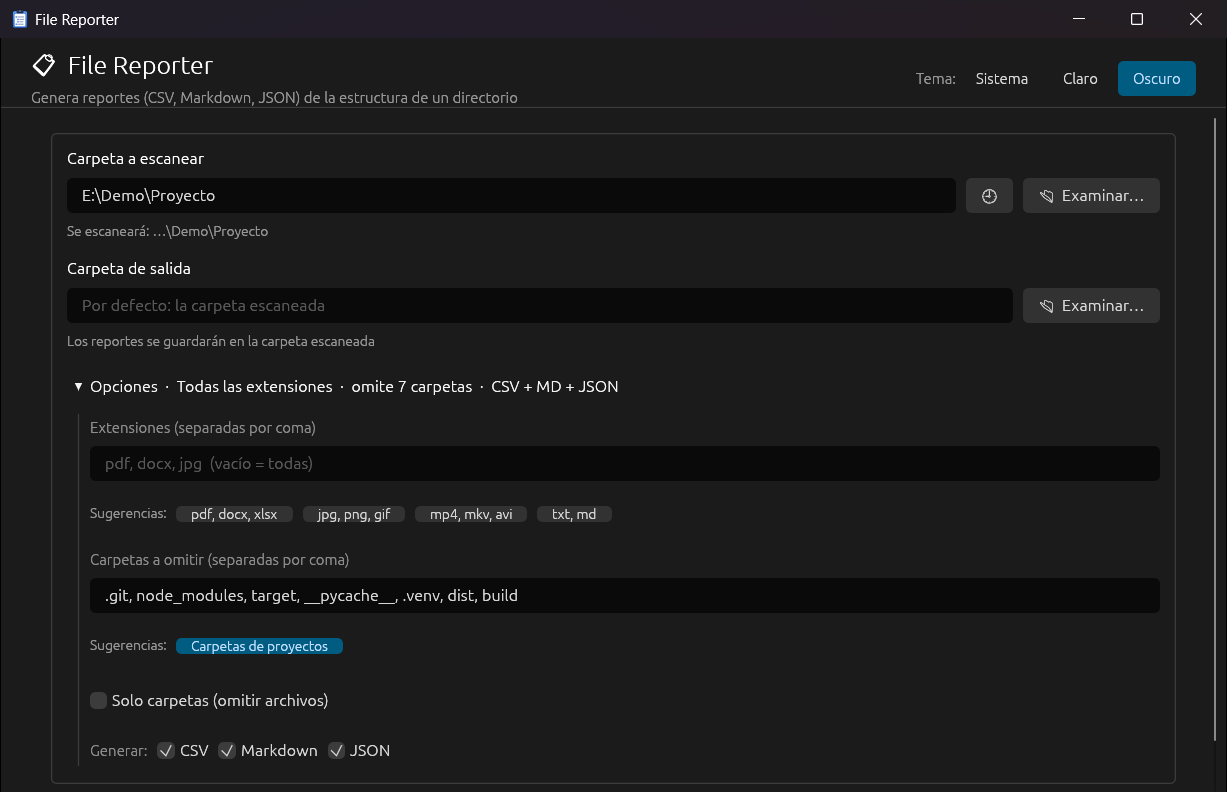
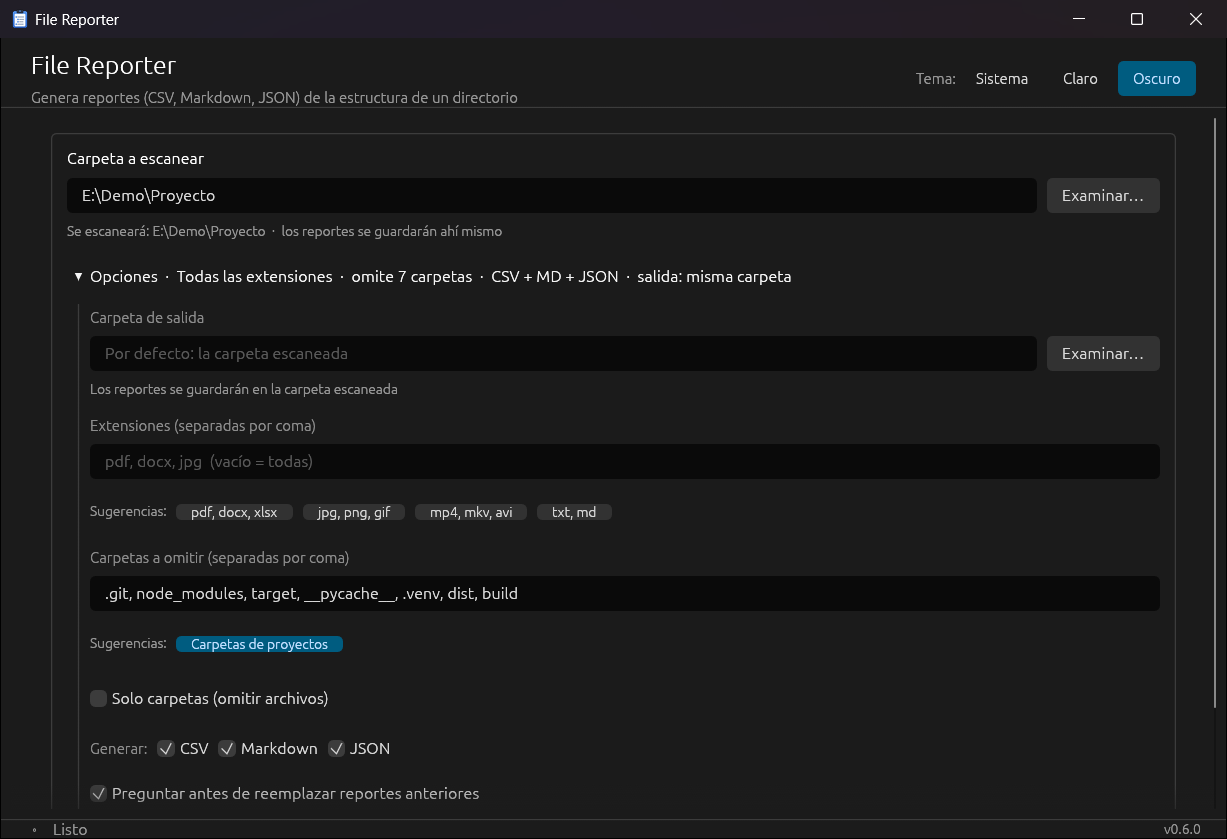
docs: update documentation and screenshots for redesigned GUI form layout
- Move output folder configuration from main form to Options section
- Update README workflow diagram to include output folder in Options
- Revise step-by-step instructions to reflect new form layout and clearer first-use guidance
- Add explanation of drop zone for folder input and inline help text next to Generate button
- Update alt text for GUI screenshots to match new Options panel contents
- Document "Reset" button behavior (clears form without losing last result)
- Add CHANGELOG entries for improved first-use experience and GUI refinements
- Fix bug where folder paths under drive root displayed incorrectly (showed `…\\\Windows` instead of `C:\Windows`)
- Update screenshots (gui-opciones.png and gui-resultado.png) to reflect current UI design

diff --git a/README.md b/README.md
@@ -72,7 +72,7 @@ file-reporter /ruta/a/escanear
 
 **Interfaz gráfica**
 - 🖱 Arrastra una carpeta, usa "Examinar…" o elige una de las 5 últimas (🕘).
-- 🧭 Formulario simple: lo esencial arriba y el resto en **Opciones**, con un resumen de lo elegido.
+- 🧭 Formulario simple: arriba solo la carpeta a escanear; el resto, incluida la carpeta de salida, en **Opciones**, con un resumen de lo elegido. Si falta algo para empezar, lo dice junto al botón.
 - 📈 Progreso en vivo (archivos encontrados y carpetas revisadas); **cancela** en cualquier momento con Esc.
 - 🧾 Resultado claro: reportes (abrir o copiar su ruta), tipos de archivo y lo que quedó fuera, con su motivo.
 - 🔄 Al volver a generar, ofrece actualizar los reportes anteriores o guardar los nuevos con otro nombre, o no volver a preguntar.
@@ -153,7 +153,7 @@ El mismo ejecutable funciona en dos modos:
 
 ```mermaid
 flowchart TD
-    A["📁 Elegir la carpeta a escanear<br/>escribir, Examinar…, 🕘 recientes o arrastrar"] --> B["⚙ Opciones (opcional)<br/>extensiones · carpetas a omitir · formatos"]
+    A["📁 Elegir la carpeta a escanear<br/>escribir, Examinar…, 🕘 recientes o arrastrar"] --> B["⚙ Opciones (opcional)<br/>salida · extensiones · carpetas a omitir · formatos"]
     B --> C["▶ Generar reportes"]
     C --> D{"¿Ya hay reportes<br/>en la carpeta de salida?"}
     D -- "No" --> E["⏳ Escaneo con progreso en vivo<br/>Esc cancela"]
@@ -163,19 +163,19 @@ flowchart TD
     E --> G["✅ Resultado: reportes, tipos de archivo<br/>y lo que quedó fuera"]
 ```
 
-1. Elige la **carpeta a escanear**: escribe la ruta, pulsa "Examinar…", elige una reciente con 🕘 o arrástrala a la ventana. Debajo se ve el final de la ruta, por si el campo la corta.
-2. *(Opcional)* Elige una **carpeta de salida**. Por defecto, la misma carpeta escaneada.
-3. *(Opcional)* Despliega **Opciones**. Plegado, muestra un resumen de lo elegido (p. ej. "Todas las extensiones · omite 7 carpetas · CSV + MD + JSON"). Dentro puedes:
+1. Elige la **carpeta a escanear**: arrástrala a la zona punteada (o a cualquier parte de la ventana), haz clic en esa zona o en "Examinar…", elige una reciente con 🕘 o escribe la ruta. Debajo se ve el final de la ruta, por si el campo la corta, y dónde se guardarán los reportes.
+2. *(Opcional)* Despliega **Opciones**. Plegado, muestra un resumen de lo elegido (p. ej. "Todas las extensiones · omite 7 carpetas · CSV + MD + JSON · salida: misma carpeta"). Dentro puedes:
+   - elegir otra **carpeta de salida** (por defecto, la misma carpeta escaneada; si no existe, se crea);
    - escribir las **extensiones** a incluir (las sugerencias se suman a lo escrito; pulsarlas otra vez las quita);
    - revisar las **carpetas a omitir** por nombre. De partida se omiten `.git`, `node_modules`, `target`, `__pycache__`, `.venv`, `dist` y `build`; vacía el campo para incluirlas;
    - marcar **Solo carpetas** para obtener solo la jerarquía de directorios;
    - desmarcar los **formatos** que no necesites;
    - volver a activar **Preguntar antes de reemplazar reportes anteriores**, si elegiste "No volver a preguntar".
-4. Pulsa **▶ Generar reportes** (o Enter, si no estás escribiendo en un campo). Si en la carpeta de salida ya hay reportes de una ejecución anterior, puedes **actualizarlos** (se reemplazan) o **guardar los nuevos con otro nombre** (`report-<carpeta>-<fecha>.*`).
-5. Al terminar se abre la ventana de resultado, con la carpeta donde se guardaron los reportes, un botón para abrir cada uno y los tipos de archivo. Ciérrala con **Cerrar**, Enter o Esc; el botón **Ver resultado** la vuelve a abrir.
+3. Pulsa **▶ Generar reportes** (o Enter, si no estás escribiendo en un campo). Si en la carpeta de salida ya hay reportes de una ejecución anterior, puedes **actualizarlos** (se reemplazan) o **guardar los nuevos con otro nombre** (`report-<carpeta>-<fecha>.*`).
+4. Al terminar se abre la ventana de resultado, con la carpeta donde se guardaron los reportes, un botón para abrir cada uno y los tipos de archivo. Ciérrala con **Cerrar**, Enter o Esc; el botón **Ver resultado** la vuelve a abrir. **↺ Restablecer** vacía el formulario y vuelve las opciones a sus valores por defecto, sin perder el último resultado.
 
 <p align="center">
-  <img src="docs/images/gui-opciones.png" alt="Formulario de File Reporter con la carpeta a escanear, la carpeta de salida y Opciones desplegado: extensiones, carpetas a omitir, solo carpetas y formatos" width="760">
+  <img src="docs/images/gui-opciones.png" alt="Formulario de File Reporter con la carpeta a escanear y Opciones desplegado: carpeta de salida, extensiones, carpetas a omitir, solo carpetas, formatos y preguntar antes de reemplazar" width="760">
 </p>
 
 ### ⌨ Línea de comandos

diff --git a/CHANGELOG.md b/CHANGELOG.md
@@ -11,11 +11,13 @@ Los cambios notables de cada versión. El formato sigue [Keep a Changelog](https
 
 ### Cambiado
 
+- **GUI: primer uso más claro.** Mientras no hay carpeta elegida, una zona punteada invita a arrastrarla (o a hacer clic para elegirla), y junto al botón "Generar reportes" se explica por qué aún no se puede generar, antes solo visible en un tooltip. La carpeta de salida pasa a "Opciones", que la incluye en su resumen ("salida: misma carpeta"); arriba queda solo la carpeta a escanear. Con muchas extensiones, el resumen nombra tres y cuenta el resto ("pdf, docx, xlsx… (+4)"). "Limpiar" pasa a llamarse "Restablecer" y ya no borra el último resultado ([#75](https://github.com/dbarretol/file-reporter/issues/75)).
 - **GUI: volver a generar con menos fricción.** El diálogo que aparece si ya hay reportes ofrece "Actualizar reportes" como acción principal (antes "Sobrescribir", en rojo), junto a "Guardar con otro nombre" y "Cancelar", y lista los nombres alternativos completos. La ventana de resultado muestra una vez la carpeta donde se guardaron y, en cada fila, solo el nombre del archivo. Se quitan los emoji que la fuente de la interfaz no dibujaba bien (📂, 📁, 📋) ([#74](https://github.com/dbarretol/file-reporter/issues/74)).
 - **CLI:** el tiempo total se muestra como en la GUI (`<1 s`, `42s`, `3m 05s`) en vez de con el formato interno de Rust (`5.26ms`, `183.4s`) ([#78](https://github.com/dbarretol/file-reporter/issues/78)).
 
 ### Corregido
 
+- **GUI:** con una carpeta justo bajo la raíz de una unidad, la nota bajo el campo decía `…\\\Windows` en vez de `C:\Windows` ([#75](https://github.com/dbarretol/file-reporter/issues/75)).
 - **Fechas en hora local:** `report.csv` calculaba `created` y `modified` en UTC, así que fuera de UTC un archivo podía salir con otra fecha que la del explorador de archivos (en UTC-5, todo lo modificado desde las 19:00 aparecía con la fecha del día siguiente). Ahora las fechas usan la hora local del equipo. Las columnas `created_iso`/`modified_iso` y las fechas de `report.json` pasan a llevar el desfase local (`2026-11-11T21:30:00-05:00`) en vez de UTC (`2026-11-12T02:30:00+00:00`): es el mismo instante, y cualquier lector de ISO-8601 lo interpreta igual ([#72](https://github.com/dbarretol/file-reporter/issues/72)).
 - **GUI: el menú de carpetas recientes ya no consulta el disco en cada cuadro.** Comprobaba si cada carpeta seguía existiendo una y otra vez mientras el menú estaba abierto, así que una carpeta de red que no responde podía congelar la ventana. Ahora se comprueban en segundo plano al arrancar y cuando cambia la lista ([#76](https://github.com/dbarretol/file-reporter/issues/76)).
 
